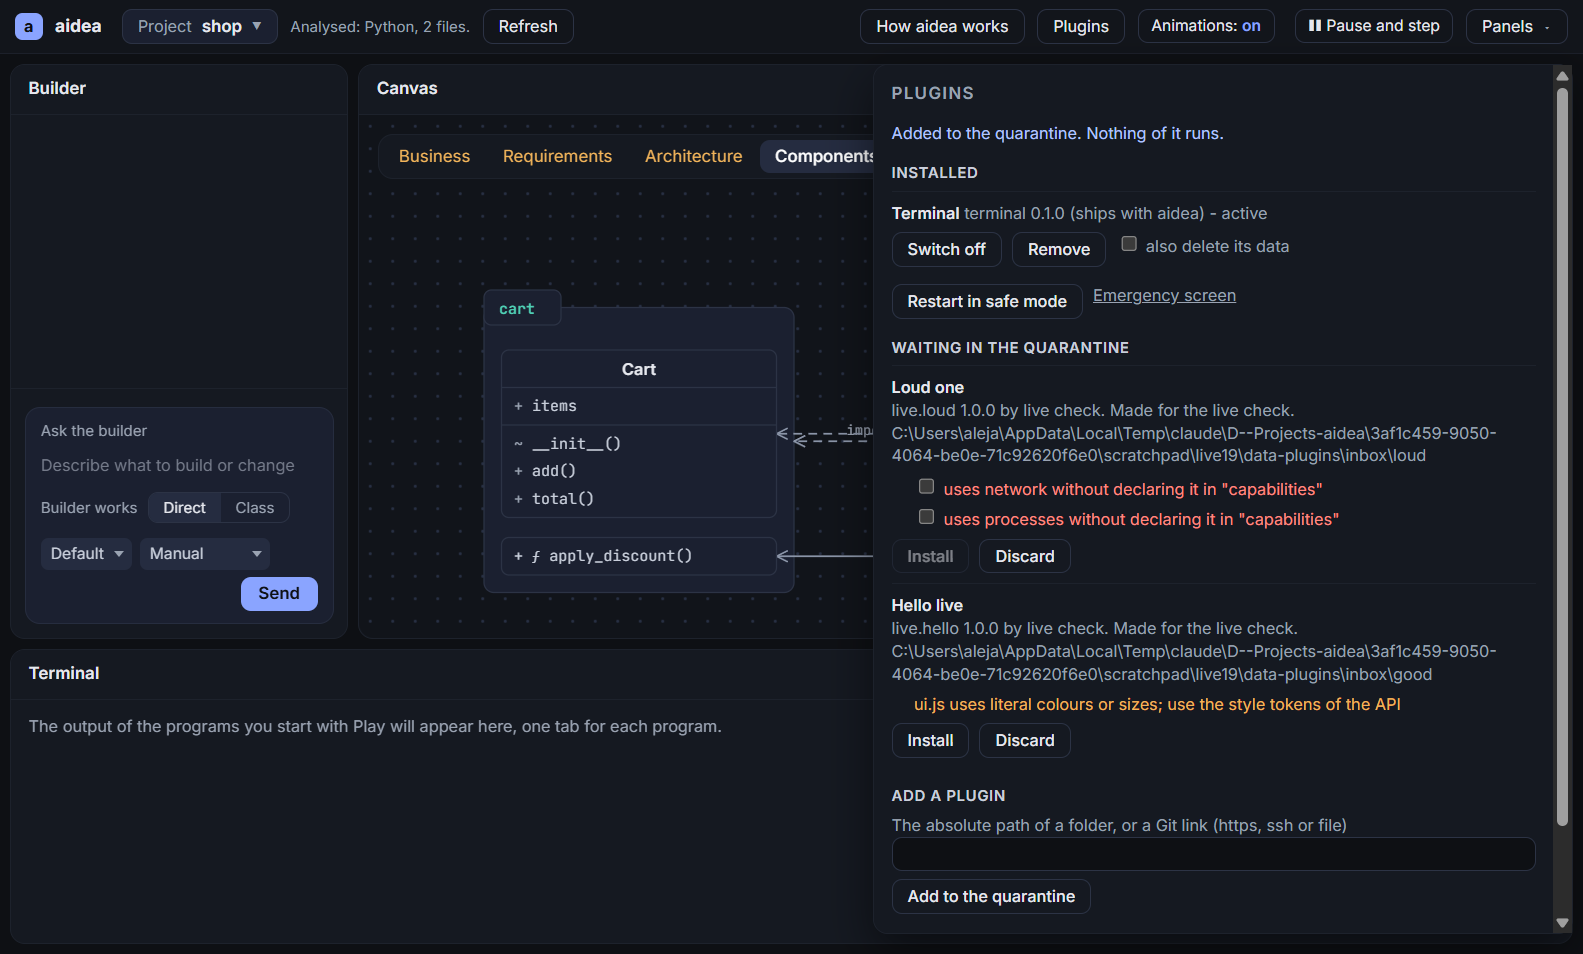
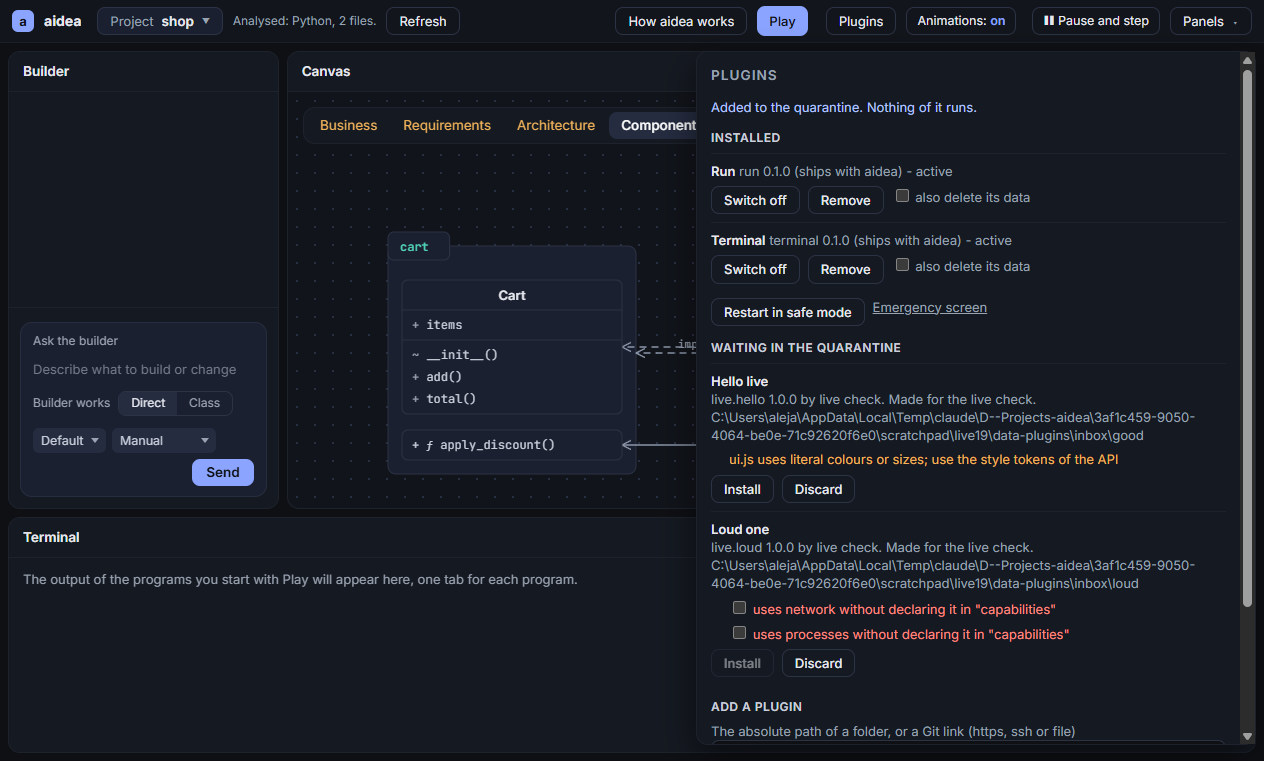
feat: Play controls fit the top bar, parts stopped by the person say stopped, the plugin manager sits above the dock sashes, tests run four at a time

diff --git a/src/plugins/run/ui.js b/src/plugins/run/ui.js
@@ -6,9 +6,9 @@ export function activate(ui) {
       const play = Object.assign(document.createElement("button"), { type: "button", textContent: "Play", title: "Start the programs of this project from its run recipe" });
       const stop = Object.assign(document.createElement("button"), { type: "button", textContent: "Stop all", title: "Stop everything Play started", hidden: true });
       const note = Object.assign(document.createElement("span"), { role: "status" });
-      note.style.cssText = "margin:0 8px;color:var(--muted);font-size:13px";
+      note.style.cssText = "color:var(--muted);font-size:12px;min-width:0;overflow:hidden;text-overflow:ellipsis;white-space:nowrap";
       box.append(play, stop, note);
-      const say = (text) => { note.textContent = text; };
+      const say = (text) => { note.textContent = note.title = text; };
       let timer = 0;
       const poll = async () => {
         const project = ui.project();
@@ -38,7 +38,7 @@ export function activate(ui) {
               r = await ui.call("play", { project });
             } else { say("Not started: the recipe was not accepted."); return; }
           }
-          say(r.started ? "Running." : describe(r));
+          say(r.started ? "" : describe(r)); // when it starts, Stop all appearing says it
         } catch (e) { say(e.message); } finally { play.disabled = false; poll(); }
       };
       stop.onclick = async () => { await ui.call("stop", { project: ui.project() }); say("Stopped."); poll(); };

diff --git a/src/plugins/terminal/ui.js b/src/plugins/terminal/ui.js
@@ -30,7 +30,7 @@ export function activate(ui) {
         message.hidden = parts.length > 0;
         tabs.hidden = bar.hidden = text.hidden = !parts.length;
         tabs.replaceChildren(...parts.map((p) => {
-          const tab = button(`${p.name} ${p.alive ? "(running)" : p.exit === null ? "" : `(exited ${p.exit})`}`, `Show the output of ${p.name}`, () => { selected = p.name; lastText = ""; draw(); });
+          const tab = button(`${p.name} ${p.alive ? "(running)" : p.stopped ? "(stopped)" : p.exit === null ? "" : `(exited ${p.exit})`}`, `Show the output of ${p.name}`, () => { selected = p.name; lastText = ""; draw(); });
           tab.role = "tab";
           tab.setAttribute("aria-selected", String(p === part));
           tab.dataset.part = p.name;
@@ -39,7 +39,7 @@ export function activate(ui) {
         if (!part) return;
         selected = part.name;
         bar.replaceChildren(
-          Object.assign(document.createElement("span"), { textContent: part.alive ? "Running" : `Exited with code ${part.exit}` }),
+          Object.assign(document.createElement("span"), { textContent: part.alive ? "Running" : part.stopped ? "Stopped" : `Exited with code ${part.exit}` }),
           ...(part.alive ? [button("Stop", `Stop ${part.name}`, () => act("stop", { part: part.name }))] : []),
           button("Restart", `Restart ${part.name} and what depends on it`, () => act("restart", { part: part.name })),
         );

diff --git a/src/ui/features/03-plugin-manager.js b/src/ui/features/03-plugin-manager.js
@@ -8,7 +8,7 @@ pmBox.setAttribute("aria-label", "Plugins");
 {
   const style = document.createElement("style");
   style.textContent = `
-    #plugins-manager { position: fixed; top: 51px; right: 8px; z-index: 30; width: min(560px, calc(100vw - 16px)); max-height: calc(100vh - 67px); overflow: auto; box-sizing: border-box; padding: 14px; background: var(--panel); color: var(--text); border: 1px solid var(--line); border-radius: 12px; box-shadow: 0 14px 36px rgba(0, 0, 0, .5); font-family: var(--sans); font-size: 13px; }
+    #plugins-manager { position: fixed; top: 51px; right: 8px; z-index: 120; /* above the dock sashes (dockview gives them 99) */ width: min(560px, calc(100vw - 16px)); max-height: calc(100vh - 67px); overflow: auto; box-sizing: border-box; padding: 14px; background: var(--panel); color: var(--text); border: 1px solid var(--line); border-radius: 12px; box-shadow: 0 14px 36px rgba(0, 0, 0, .5); font-family: var(--sans); font-size: 13px; }
     #plugins-manager[hidden] { display: none; }
     #plugins-manager h2 { margin: 0 0 8px; font-size: 13.5px; font-weight: 600; }
     #plugins-manager h3 { margin: 14px 0 6px; font-size: 12px; font-weight: 600; color: var(--label); text-transform: uppercase; letter-spacing: .04em; }

diff --git a/src/ui/features/02-plugins.js b/src/ui/features/02-plugins.js
@@ -19,6 +19,7 @@ pluginSlotDeclare("layout.topbar", {
     if (!entry || typeof entry.id !== "string" || typeof entry.render !== "function") throw new Error('a top bar entry needs an "id" and a "render" function');
     const box = document.createElement("span");
     box.dataset.topbarPlugin = `${owner}.${entry.id}`;
+    box.style.cssText = "display:inline-flex;align-items:center;gap:8px;min-width:0;max-width:460px;white-space:nowrap"; // the controls sit in a row with the bar's own gap, and a long message is cut
     document.getElementById("topbar-plugins").append(box);
     let dispose;
     try { dispose = entry.render(box); } catch (e) { box.remove(); throw e; }

diff --git a/src/plugins/run/main.js b/src/plugins/run/main.js
@@ -243,7 +243,7 @@ export function activate(ctx) {
     const root = rootOf(body);
     const run = runOf(root);
     return {
-      parts: [...run.parts.values()].map((e) => ({ name: e.part.name, alive: e.alive, exit: e.exit, lines: e.lines.slice(), dropped: e.dropped })),
+      parts: [...run.parts.values()].map((e) => ({ name: e.part.name, alive: e.alive, exit: e.exit, stopped: e.stopped, lines: e.lines.slice(), dropped: e.dropped })),
       stoppedOrder: run.stoppedOrder,
     };
   });

diff --git a/GLOSSARY.md b/GLOSSARY.md
@@ -225,7 +225,7 @@ The Panel for playing back one function: the form for the data of a test and the
 _Avoid_: Run panel, Algorithm column, Algorithm panel
 
 **Run**:
-Starting every program of the Project, in the right order, from the Project's run recipe. It is different from Playback, which animates one function. Not built yet: see `.scratch/run-and-terminal/spec.md`.
+Starting every program of the Project, in the right order, from the Project's run recipe, with the Play control in the top bar (the Run plugin). It is different from Playback, which animates one function.
 _Avoid_: Playback (that is one function), Start all, Launch
 
 **Files**:
@@ -235,6 +235,18 @@ _Avoid_: Explorer, file browser, sidebar
 **Code**:
 The Panel that shows the whole text of files with line numbers and syntax colours, read-only, one tab per open file. A file is chosen in Files; the code of a Node or of a Flow step is opened from the Details ("View code") or by double-clicking the step, and its lines are highlighted. It is a Panel, not a layer: the Layer bar lists only what the Canvas draws. "Open in my editor" works for the file of the tab shown. It starts hidden and opens by itself when something is chosen.
 _Avoid_: Code layer, code view, editor
+
+**Run recipe**:
+The file `.aidea/run.json` that lists the parts Play starts. aidea runs nothing from a recipe the person has not accepted on this machine: it shows the whole recipe the first time and only what changed afterwards.
+_Avoid_: Run config, launch file
+
+**Part**:
+One program of a run recipe: a name, a command, a folder, the parts it waits for and a ready signal. Each part has its own tab in the Terminal.
+_Avoid_: Service, process
+
+**Ready signal**:
+The real check that a part is up so the next one may start: a port that answers, a line it prints, a file that appears, or a URL that answers.
+_Avoid_: Health check
 
 **Shape**:
 The recorded form of a value during Playback: not only its text but what kind it is (a number, a list, a mapping, an object with fields, a reference to something already described), what it holds up to a limit, how much was left out, a number that tells whether two names are the same object, and whether it changed since the previous step. It is what the Data layer will draw. Today only Python records it.

diff --git a/.scratch/run-and-terminal/issues/04-accept-the-run-recipe.md b/.scratch/run-and-terminal/issues/04-accept-the-run-recipe.md
@@ -6,12 +6,14 @@
 
 **Status:** ready-for-agent
 
-- [ ] A recipe with a missing or invalid field is refused with a message that names the field.
+- [x] A recipe with a missing or invalid field is refused with a message that names the field.
 - [ ] The authored-area guard accepts the recipe file and still reports files outside the known set.
-- [ ] Play with no recipe says there is none and how to get one.
-- [ ] First acceptance shows the whole recipe; accepting it is remembered across a core restart on another port.
-- [ ] Any change to the file (a pull, a hand edit, the Builder) asks again and shows only the difference.
-- [ ] The accepted-recipe memory is not in the Project folder.
+- [x] Play with no recipe says there is none and how to get one.
+- [x] First acceptance shows the whole recipe; accepting it is remembered across a core restart on another port.
+- [x] Any change to the file (a pull, a hand edit, the Builder) asks again and shows only the difference.
+- [x] The accepted-recipe memory is not in the Project folder.
 - [ ] Core API tests (accept, refuse, changed, restart) and page tests (top bar, confirmation) pass.
-- [ ] GLOSSARY.md has the run recipe, part, ready signal and Play, and the exception to the header rule.
-- [ ] Verified live on the second monitor.
+- [x] GLOSSARY.md has the run recipe, part, ready signal and Play, and the exception to the header rule.
+- [x] Verified live on the second monitor.
+
+Status note: Built as the Run plugin (src/plugins/run) with the Terminal plugin's tabs. Core tests: test/plugin-run.test.ts (13). Verified live on the second monitor (Electron, 11 of 11 checks). Not done: page tests for the top bar and the tabs beyond the live check, the Terminal-hidden-stays-hidden test, and (04) the authored-area guard still treats .aidea/run.json as any other file. Consent is kept in the Run plugin's data folder (not the preferences file), keyed by Project path, and the confirmation is the browser's own dialog for now.

diff --git a/.scratch/run-and-terminal/issues/06-several-parts-order-ready-limit.md b/.scratch/run-and-terminal/issues/06-several-parts-order-ready-limit.md
@@ -6,11 +6,13 @@
 
 **Status:** ready-for-agent
 
-- [ ] A part with dependencies does not start until each dependency is ready by its own signal, for each of the four kinds of signal.
-- [ ] A part that never becomes ready is reported after its limit, naming the part and its last lines.
-- [ ] After a failure no process started by Play is left alive and no port stays busy.
-- [ ] A part that exits with an error before becoming ready is reported at once, not after the limit.
-- [ ] A cycle in the dependencies is refused when the recipe is accepted.
+- [x] A part with dependencies does not start until each dependency is ready by its own signal, for each of the four kinds of signal.
+- [x] A part that never becomes ready is reported after its limit, naming the part and its last lines.
+- [x] After a failure no process started by Play is left alive and no port stays busy.
+- [x] A part that exits with an error before becoming ready is reported at once, not after the limit.
+- [x] A cycle in the dependencies is refused when the recipe is accepted.
 - [ ] Play's failure message offers to open the Terminal and does so on request.
 - [ ] Core API tests (order, each signal, limit, failure teardown) and page tests (the message and the action) pass.
-- [ ] Verified live on the second monitor.
+- [x] Verified live on the second monitor.
+
+Status note: Built as the Run plugin (src/plugins/run) with the Terminal plugin's tabs. Core tests: test/plugin-run.test.ts (13). Verified live on the second monitor (Electron, 11 of 11 checks). Not done: page tests for the top bar and the tabs beyond the live check, the Terminal-hidden-stays-hidden test, and (04) the authored-area guard still treats .aidea/run.json as any other file. Consent is kept in the Run plugin's data folder (not the preferences file), keyed by Project path, and the confirmation is the browser's own dialog for now.

diff --git a/.scratch/run-and-terminal/issues/05-play-one-part-output-in-terminal.md b/.scratch/run-and-terminal/issues/05-play-one-part-output-in-terminal.md
@@ -6,10 +6,12 @@
 
 **Status:** ready-for-agent
 
-- [ ] Play starts the part in its folder; its lines appear in its tab while it runs.
-- [ ] The tab shows alive, then exited with its code; the text stays.
-- [ ] A very long output keeps the most recent lines and says older ones were dropped.
-- [ ] Stop all ends a part that starts its own children, leaving no process and no listening port (checked with a test part that spawns a child and opens a port).
+- [x] Play starts the part in its folder; its lines appear in its tab while it runs.
+- [x] The tab shows alive, then exited with its code; the text stays.
+- [x] A very long output keeps the most recent lines and says older ones were dropped.
+- [x] Stop all ends a part that starts its own children, leaving no process and no listening port (checked with a test part that spawns a child and opens a port).
 - [ ] Play with the Terminal hidden leaves it hidden.
 - [ ] Core API tests with tiny real child processes and page tests for the tab pass.
-- [ ] Verified live on the second monitor.
+- [x] Verified live on the second monitor.
+
+Status note: Built as the Run plugin (src/plugins/run) with the Terminal plugin's tabs. Core tests: test/plugin-run.test.ts (13). Verified live on the second monitor (Electron, 11 of 11 checks). Not done: page tests for the top bar and the tabs beyond the live check, the Terminal-hidden-stays-hidden test, and (04) the authored-area guard still treats .aidea/run.json as any other file. Consent is kept in the Run plugin's data folder (not the preferences file), keyed by Project path, and the confirmation is the browser's own dialog for now.

diff --git a/.scratch/run-and-terminal/issues/07-reverse-stop-restart-with-dependents.md b/.scratch/run-and-terminal/issues/07-reverse-stop-restart-with-dependents.md
@@ -6,8 +6,10 @@
 
 **Status:** ready-for-agent
 
-- [ ] Stop all ends parts in reverse dependency order (checked with parts that record the order in which they receive the stop).
-- [ ] The stop button of a tab ends only that part; the restart button restarts it and its dependents in order, waiting for each ready signal.
-- [ ] A failure while restarting follows the failure rules of ticket 06.
+- [x] Stop all ends parts in reverse dependency order (checked with parts that record the order in which they receive the stop).
+- [x] The stop button of a tab ends only that part; the restart button restarts it and its dependents in order, waiting for each ready signal.
+- [x] A failure while restarting follows the failure rules of ticket 06.
 - [ ] Core API tests and page tests for the buttons pass.
-- [ ] Verified live on the second monitor.
+- [x] Verified live on the second monitor.
+
+Status note: Built as the Run plugin (src/plugins/run) with the Terminal plugin's tabs. Core tests: test/plugin-run.test.ts (13). Verified live on the second monitor (Electron, 11 of 11 checks). Not done: page tests for the top bar and the tabs beyond the live check, the Terminal-hidden-stays-hidden test, and (04) the authored-area guard still treats .aidea/run.json as any other file. Consent is kept in the Run plugin's data folder (not the preferences file), keyed by Project path, and the confirmation is the browser's own dialog for now.
